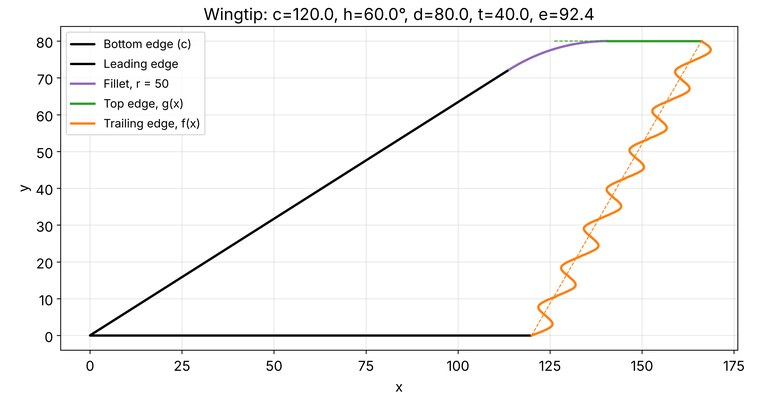
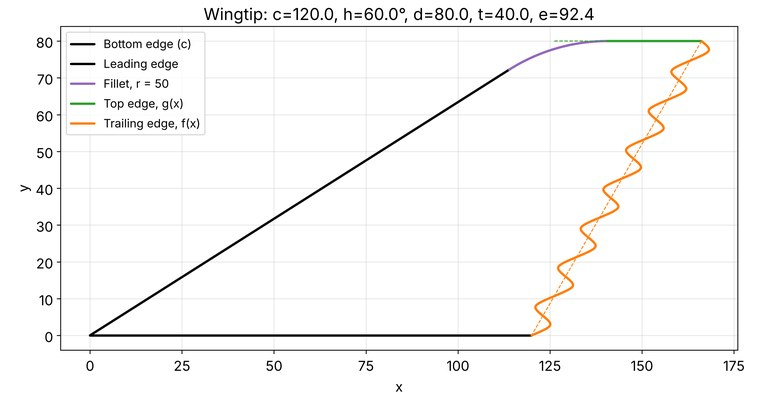
Update final-year project page with the latest project status
Redraw the geometry figure from the project's own plotting code, rewrite
the page for the experiment-first method (CFD now an optional comparison),
and drop the supervisor's name until Luca confirms it can be public.

Claude-Session: https://claude.ai/code/session_01AipWdhyzF4PoYVU94K1NN9

Changed region(s): [[0.6961, 0.4511, 0.8171, 0.8421], [0.8171, 0.1504, 0.9079, 0.4511], [0.9079, 0.0902, 0.9382, 0.1504]]

diff --git a/projects/final-year-project.html b/projects/final-year-project.html
@@ -4,10 +4,10 @@
 <meta charset="utf-8">
 <meta name="viewport" content="width=device-width, initial-scale=1">
 <title>Final-year project: serrated wingtip devices · Luca Piergentili</title>
-<meta name="description" content="My self-initiated final-year project: can serrated edges on an airliner winglet weaken the tip vortex and cut drag?">
+<meta name="description" content="Testing whether sine-wave serrations on a winglet&#x27;s leading, top and trailing edges can weaken the tip vortex and cut drag without losing lift.">
 
 <meta property="og:title" content="Final-year project: serrated wingtip devices · Luca Piergentili">
-<meta property="og:description" content="My self-initiated final-year project: can serrated edges on an airliner winglet weaken the tip vortex and cut drag?">
+<meta property="og:description" content="Testing whether sine-wave serrations on a winglet&#x27;s leading, top and trailing edges can weaken the tip vortex and cut drag without losing lift.">
 <meta property="og:image" content="https://lucapierg03.github.io/assets/img/final-year-project/1.jpg">
 <meta property="og:type" content="website">
 <link rel="icon" href="/assets/favicon.svg" type="image/svg+xml">
@@ -33,7 +33,7 @@
       <a class="back" href="/projects/">← All projects</a>
       <div class="tags"><span class="tag tag-standout">Standout</span><span class="tag tag-university">University</span></div>
       <h1>Final-year project: serrated wingtip devices</h1>
-      <p class="meta">University of Bath · Final Year Project · Supervisor: Dr Zhijing Wang · 2026 – 2027</p>
+      <p class="meta">University of Bath · Final Year Project · 2026 – 2027</p>
     </div>
   </section>
   
@@ -41,19 +41,19 @@
     <div class="project-main">
       
       <h2>Context</h2>
-      <p>Air leaking round a wingtip from the high-pressure underside to the low-pressure top forms tip vortices and lift-induced drag, a large share of an airliner&#x27;s drag. Winglets reduce this, saving fuel and CO2. My project asks whether sine-wave serrations on the edges of an A350-style winglet can weaken the tip vortex, which matters for wake hazard and aircraft spacing, and reduce drag without losing lift.</p>
-      <h2>What I did</h2><ul class="ticks"><li>Proposed the project myself.</li><li>Chose the variables: serrations on the top edge, the trailing edge and both, varying the sine wave&#x27;s amplitude and frequency over a range of angles of attack.</li><li>Chose the A350 wingtip device as the baseline, and a test approach with interchangeable tips on one wind-tunnel model, supported by Ansys CFD.</li><li>Reviewing the literature on wingtip devices and serrated edges.</li></ul>
+      <p>Wingtip vortices cause a large share of an airliner&#x27;s drag and set how far apart aircraft must fly at airports. Winglets reduce this, and studies show that serrated or wavy edges can weaken the vortex further, but their effect on lift and drag is unsettled and no experiment has compared the leading, top and trailing edges on the same winglet. In my self-initiated final-year project at the University of Bath, I am testing an A350-style wingtip device with sine-wave serrations on each edge in an open-jet wind tunnel, measuring lift and drag and visualising the vortex with smoke.</p>
+      <h2>What I did</h2><ul class="ticks"><li>Came up with the project and wrote the student-led proposal, inspired by the serrated fins of humpback whales.</li><li>Reviewed the literature on wingtip devices and serrated edges, finding conflicting force results and no wind tunnel study of trailing-edge serrations on a winglet.</li><li>Wrote a parametric Python tool that generates the wingtip outline with plain or slanted sine-wave serrations, with the slanted humps lined up with the airflow.</li><li>Reshaped the method with my supervisor: an experiment-first study, leading edge first, using a rigid wing section with swappable tips.</li><li>Planning the tunnel tests: a force balance I will calibrate myself, smoke visualisation and repeat runs for uncertainty, with Ansys CFD as optional comparison.</li><li>Keeping a decision log and risk register so every change of scope has a recorded reason.</li></ul>
     </div>
     <aside class="project-side">
       <dl>
         <dt>Role</dt><dd>Individual project, self-initiated</dd>
-        <dt>Result</dt><dd>In progress. Literature review under way; CAD, CFD and wind-tunnel testing planned. No results yet.</dd>
+        <dt>Result</dt><dd>In progress: design and planning stage (October 2026); tips, wind tunnel tests and results follow in spring 2027.</dd>
       </dl>
-      <div class="side-skills"><span class="dt">Skills</span><div><span class="chip chip-static">Experimental design</span><span class="chip chip-static">Aerodynamics</span><span class="chip chip-static">Literature review</span><span class="chip chip-static">Research proposal</span></div></div>
+      <div class="side-skills"><span class="dt">Skills</span><div><span class="chip chip-static">Experimental design</span><span class="chip chip-static">Aerodynamics</span><span class="chip chip-static">Literature review</span><span class="chip chip-static">Python (NumPy, Matplotlib)</span><span class="chip chip-static">Research proposal</span><span class="chip chip-static">Project planning</span></div></div>
       
     </aside>
   </div>
-  <div class="wrap"><section class="part"><h2>Decisions so far</h2><p>I defined the serrations as sine waves set by amplitude and frequency: two continuous variables that make trends easy to see, and the closest published study found wavelength mattered more than waveform shape. I measure vortex strength and drag as separate outcomes, because a weaker vortex does not automatically mean less drag. And every tip fits the same model, so the wing and mounting stay identical and small drag differences come from the tip, not the set-up.</p><div class="gallery"><figure class="shot "><a href="/assets/img/final-year-project/1.jpg" class="lb" data-group="g" data-caption="Wingtip device geometry, with sine-wave serrations on the trailing edge."><img src="/assets/img/final-year-project/1-sm.jpg" width="760" height="399" alt="Wingtip device geometry, with sine-wave serrations on the trailing edge." loading="lazy" class="fit-contain"></a><figcaption>Wingtip device geometry, with sine-wave serrations on the trailing edge.</figcaption></figure></div></section></div>
+  <div class="wrap"><section class="part"><h2>Geometry tool</h2><p>My Python script draws the side view of the wingtip device from a few inputs: bottom edge length, trailing-edge angle, height, top edge length and an optional fillet at the top corner. It adds sine-wave serrations to the top and trailing edges, either plain or slanted so that each hump lines up with the airflow, and fits a whole number of waves plus a half-wave on each edge. The serrations are centred on the original edge, so the device&#x27;s area stays about the same between configurations and does not explain differences in lift and drag.</p><div class="gallery"><figure class="shot "><a href="/assets/img/final-year-project/1.jpg" class="lb" data-group="g" data-caption="Wingtip outline from my Python script: filleted top corner (r = 50) and slanted sine-wave trailing-edge serrations aligned with the airflow."><img src="/assets/img/final-year-project/1-sm.jpg" width="760" height="399" alt="Wingtip outline from my Python script: filleted top corner (r = 50) and slanted sine-wave trailing-edge serrations aligned with the airflow." loading="lazy" class="fit-contain"></a><figcaption>Wingtip outline from my Python script: filleted top corner (r = 50) and slanted sine-wave trailing-edge serrations aligned with the airflow.</figcaption></figure></div></section><section class="part"><h2>Decisions so far</h2><p>I defined the serrations by amplitude and wavelength: two continuous variables that make trends easy to see, and the closest published study found wavelength mattered more than waveform shape. I measure the vortex and the forces as separate outcomes, because a weaker vortex does not automatically mean less drag. Every tip fits the same rigid wing section, so differences come from the tip, not the set-up. With my supervisor I chose the open-jet tunnel for easy tip swaps and smoke access, an experiment-only core method because it guarantees real results, and a test order of leading edge, then top edge, then trailing edge, each tested on its own before any combinations.</p></section></div>
   <nav class="wrap pager" aria-label="More projects">
     <a href="/projects/andel.html"><span>Previous</span>Andel: BundGuard redesign and four more products</a>
     <a href="/projects/lego-trent-xwb.html" class="next"><span>Next</span>LEGO Rolls-Royce Trent XWB replica</a>

diff --git a/about.html b/about.html
@@ -35,7 +35,7 @@
 </section>
 <section class="section section-tight">
   <div class="wrap about-layout">
-    <div class="about-text"><p>I&#x27;m Luca, a final-year MEng Aerospace Engineering student at the University of Bath, graduating in July 2027 with a predicted First. I&#x27;m Italian and have lived in Geneva since 2009, where I hold a Swiss C permit, and I&#x27;m eligible for the UK Graduate visa.</p><p>My year in industry was split between two placements. At ChargePoint Technology in Liverpool I designed equipment around pharmaceutical containment valves in SolidWorks and automated the company&#x27;s product database. At Andel in Barnsley I redesigned enclosures for leak-detection and flood-protection products, including a gully flood sensor approved for commercial use and a self-initiated redesign of the flagship BundGuard. In summer 2026 I worked in continuing airworthiness at Avia Seven and Marathon Airlines in Athens, assessing Service Bulletins and maintenance programmes for Embraer jets.</p><p>At university I was project manager and technical integrator of VA-55, a hybrid VTOL crop-spraying drone. This year my self-initiated final-year project investigates serrated wingtip devices, with wind-tunnel testing and CFD planned.</p><p>Outside engineering I design LEGO models, play volleyball, and record and produce my own music.</p></div>
+    <div class="about-text"><p>I&#x27;m Luca, a final-year MEng Aerospace Engineering student at the University of Bath, graduating in July 2027 with a predicted First. I&#x27;m Italian and have lived in Geneva since 2009, where I hold a Swiss C permit, and I&#x27;m eligible for the UK Graduate visa.</p><p>My year in industry was split between two placements. At ChargePoint Technology in Liverpool I designed equipment around pharmaceutical containment valves in SolidWorks and automated the company&#x27;s product database. At Andel in Barnsley I redesigned enclosures for leak-detection and flood-protection products, including a gully flood sensor approved for commercial use and a self-initiated redesign of the flagship BundGuard. In summer 2026 I worked in continuing airworthiness at Avia Seven and Marathon Airlines in Athens, assessing Service Bulletins and maintenance programmes for Embraer jets.</p><p>At university I was project manager and technical integrator of VA-55, a hybrid VTOL crop-spraying drone. This year my self-initiated final-year project tests sine-wave serrations on a wingtip device in the wind tunnel, with Ansys CFD as an optional comparison.</p><p>Outside engineering I design LEGO models, play volleyball, and record and produce my own music.</p></div>
     <div class="about-photo"><img src="/assets/img/me/luca.jpg" width="667" height="900" alt="Portrait of Luca Piergentili"></div>
   </div>
 </section>

diff --git a/experience.html b/experience.html
@@ -82,7 +82,7 @@
     <h2>Education</h2>
     <ol class="timeline"><li class="tl-item">
   <div class="tl-dates">2022 – 2027</div>
-  <div class="tl-body"><h3>University of Bath</h3><p class="tl-org">MEng (Hons) Aerospace Engineering, with a year in industry</p><ul><li>Predicted First Class Honours.</li><li>Final-year project: serrated wingtip devices, with wind-tunnel testing and CFD planned.</li><li>Key modules: Aerodynamics, Aerospace Structures, Aircraft Performance and Design, Aircraft Propulsion, CFD, Rotorcraft Engineering, Spacecraft Engineering, Stability and Control.</li></ul></div>
+  <div class="tl-body"><h3>University of Bath</h3><p class="tl-org">MEng (Hons) Aerospace Engineering, with a year in industry</p><ul><li>Predicted First Class Honours.</li><li>Final-year project: serrated wingtip devices, tested in the wind tunnel with Ansys CFD as an optional comparison.</li><li>Key modules: Aerodynamics, Aerospace Structures, Aircraft Performance and Design, Aircraft Propulsion, CFD, Rotorcraft Engineering, Spacecraft Engineering, Stability and Control.</li></ul></div>
 </li><li class="tl-item">
   <div class="tl-dates">2009 – 2022</div>
   <div class="tl-body"><h3>International School of Geneva (Ecolint)</h3><p class="tl-org">International Baccalaureate, with Distinction and Merit</p><ul><li>Higher Level Mathematics 7/7, Higher Level Physics 7/7, Extended Essay grade A.</li></ul></div>

diff --git a/projects/index.html b/projects/index.html
@@ -55,7 +55,7 @@
   <div class="card-body">
     <div class="tags"><span class="tag tag-standout">Standout</span><span class="tag tag-university">University</span></div>
     <h3>Final-year project: serrated wingtip devices</h3>
-    <p>My self-initiated final-year project: can serrated edges on an airliner winglet weaken the tip vortex and cut drag?</p>
+    <p>Testing whether sine-wave serrations on a winglet&#x27;s leading, top and trailing edges can weaken the tip vortex and cut drag without losing lift.</p>
   </div>
 </a><a class="card" href="/projects/lego-trent-xwb.html" data-chapters="standout hobbies">
   <div class="card-media"><img src="/assets/img/lego-trent-xwb/1-sm.jpg" width="760" height="570" alt="LEGO Rolls-Royce Trent XWB replica" loading="lazy" class="fit-cover"></div>

diff --git a/_src/content.py b/_src/content.py
@@ -47,7 +47,7 @@ ABOUT = [
     "I worked in continuing airworthiness at Avia Seven and Marathon Airlines in Athens, assessing Service Bulletins "
     "and maintenance programmes for Embraer jets.",
     "At university I was project manager and technical integrator of VA-55, a hybrid VTOL crop-spraying drone. "
-    "This year my self-initiated final-year project investigates serrated wingtip devices, with wind-tunnel testing and CFD planned.",
+    "This year my self-initiated final-year project tests sine-wave serrations on a wingtip device in the wind tunnel, with Ansys CFD as an optional comparison.",
     "Outside engineering I design LEGO models, play volleyball, and record and produce my own music.",
 ]
 
@@ -130,7 +130,7 @@ EDUCATION = [
         "dates": "2022 – 2027",
         "points": [
             "Predicted First Class Honours.",
-            "Final-year project: serrated wingtip devices, with wind-tunnel testing and CFD planned.",
+            "Final-year project: serrated wingtip devices, tested in the wind tunnel with Ansys CFD as an optional comparison.",
             "Key modules: Aerodynamics, Aerospace Structures, Aircraft Performance and Design, Aircraft Propulsion, CFD, Rotorcraft Engineering, Spacecraft Engineering, Stability and Control.",
         ],
     },
@@ -207,22 +207,26 @@ PROJECTS = [
     {
         "slug": "final-year-project", "chapters": ["standout", "university"], "cover": 1, "stat": ("2027", "In progress"),
         "title": "Final-year project: serrated wingtip devices",
-        "card": "My self-initiated final-year project: can serrated edges on an airliner winglet weaken the tip vortex and cut drag?",
-        "meta": "University of Bath · Final Year Project · Supervisor: Dr Zhijing Wang · 2026 – 2027",
+        "card": "Testing whether sine-wave serrations on a winglet's leading, top and trailing edges can weaken the tip vortex and cut drag without losing lift.",
+        "meta": "University of Bath · Final Year Project · 2026 – 2027",
         "role": "Individual project, self-initiated",
-        "result": "In progress. Literature review under way; CAD, CFD and wind-tunnel testing planned. No results yet.",
-        "context": "Air leaking round a wingtip from the high-pressure underside to the low-pressure top forms tip vortices and lift-induced drag, a large share of an airliner's drag. Winglets reduce this, saving fuel and CO2. My project asks whether sine-wave serrations on the edges of an A350-style winglet can weaken the tip vortex, which matters for wake hazard and aircraft spacing, and reduce drag without losing lift.",
+        "result": "In progress: design and planning stage (October 2026); tips, wind tunnel tests and results follow in spring 2027.",
+        "context": "Wingtip vortices cause a large share of an airliner's drag and set how far apart aircraft must fly at airports. Winglets reduce this, and studies show that serrated or wavy edges can weaken the vortex further, but their effect on lift and drag is unsettled and no experiment has compared the leading, top and trailing edges on the same winglet. In my self-initiated final-year project at the University of Bath, I am testing an A350-style wingtip device with sine-wave serrations on each edge in an open-jet wind tunnel, measuring lift and drag and visualising the vortex with smoke.",
         "did": [
-            "Proposed the project myself.",
-            "Chose the variables: serrations on the top edge, the trailing edge and both, varying the sine wave's amplitude and frequency over a range of angles of attack.",
-            "Chose the A350 wingtip device as the baseline, and a test approach with interchangeable tips on one wind-tunnel model, supported by Ansys CFD.",
-            "Reviewing the literature on wingtip devices and serrated edges.",
+            "Came up with the project and wrote the student-led proposal, inspired by the serrated fins of humpback whales.",
+            "Reviewed the literature on wingtip devices and serrated edges, finding conflicting force results and no wind tunnel study of trailing-edge serrations on a winglet.",
+            "Wrote a parametric Python tool that generates the wingtip outline with plain or slanted sine-wave serrations, with the slanted humps lined up with the airflow.",
+            "Reshaped the method with my supervisor: an experiment-first study, leading edge first, using a rigid wing section with swappable tips.",
+            "Planning the tunnel tests: a force balance I will calibrate myself, smoke visualisation and repeat runs for uncertainty, with Ansys CFD as optional comparison.",
+            "Keeping a decision log and risk register so every change of scope has a recorded reason.",
         ],
         "sections": [
-            {"h": "Decisions so far", "imgs": [1],
-             "p": "I defined the serrations as sine waves set by amplitude and frequency: two continuous variables that make trends easy to see, and the closest published study found wavelength mattered more than waveform shape. I measure vortex strength and drag as separate outcomes, because a weaker vortex does not automatically mean less drag. And every tip fits the same model, so the wing and mounting stay identical and small drag differences come from the tip, not the set-up."},
+            {"h": "Geometry tool", "imgs": [1],
+             "p": "My Python script draws the side view of the wingtip device from a few inputs: bottom edge length, trailing-edge angle, height, top edge length and an optional fillet at the top corner. It adds sine-wave serrations to the top and trailing edges, either plain or slanted so that each hump lines up with the airflow, and fits a whole number of waves plus a half-wave on each edge. The serrations are centred on the original edge, so the device's area stays about the same between configurations and does not explain differences in lift and drag."},
+            {"h": "Decisions so far", "imgs": [],
+             "p": "I defined the serrations by amplitude and wavelength: two continuous variables that make trends easy to see, and the closest published study found wavelength mattered more than waveform shape. I measure the vortex and the forces as separate outcomes, because a weaker vortex does not automatically mean less drag. Every tip fits the same rigid wing section, so differences come from the tip, not the set-up. With my supervisor I chose the open-jet tunnel for easy tip swaps and smoke access, an experiment-only core method because it guarantees real results, and a test order of leading edge, then top edge, then trailing edge, each tested on its own before any combinations."},
         ],
-        "skills": ["Experimental design", "Aerodynamics", "Literature review", "Research proposal"],
+        "skills": ["Experimental design", "Aerodynamics", "Literature review", "Python (NumPy, Matplotlib)", "Research proposal", "Project planning"],
     },
     {
         "slug": "lego-trent-xwb", "chapters": ["standout", "hobbies"], "cover": 1,

diff --git a/_src/imgs.py b/_src/imgs.py
@@ -307,4 +307,4 @@ del _md[-2:]
 IMGS["team-bath-drones"] = [(s, "Analysis of another candidate aerofoil." if s in (69, 70) else c) for s, c in IMGS["team-bath-drones"]]
 IMGS["shaft-design"] += [(D + "sd204a-hi.png", "Iteration 2 assembly drawing (A1)."),
                          (D + "sd204s-hi.png", "Iteration 2 shaft drawing with fit tolerances (A1).")]
-IMGS["final-year-project"] = [("/mnt/project-files/website/fyp-wingtip-geometry.png", "Wingtip device geometry, with sine-wave serrations on the trailing edge.")]
+IMGS["final-year-project"] = [("/mnt/project-files/website/fyp-wingtip-geometry.png", "Wingtip outline from my Python script: filleted top corner (r = 50) and slanted sine-wave trailing-edge serrations aligned with the airflow.")]
